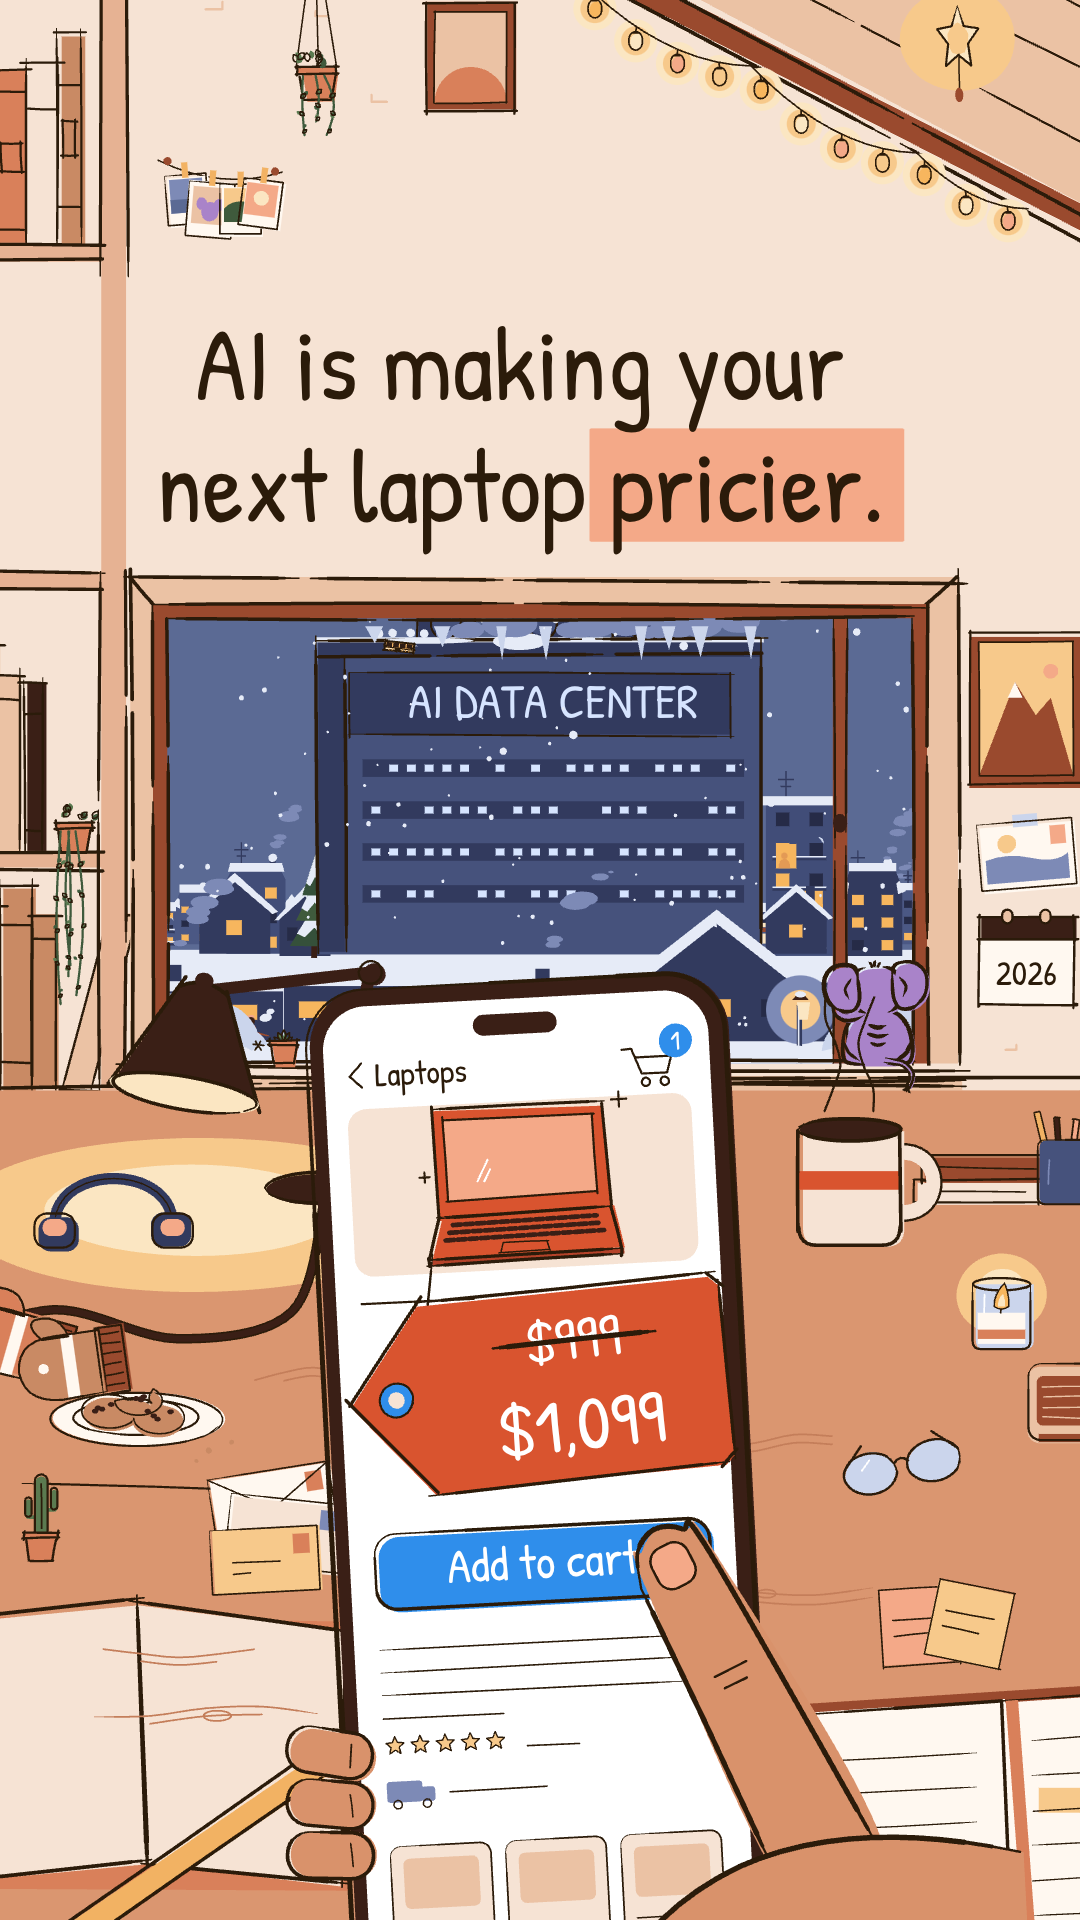
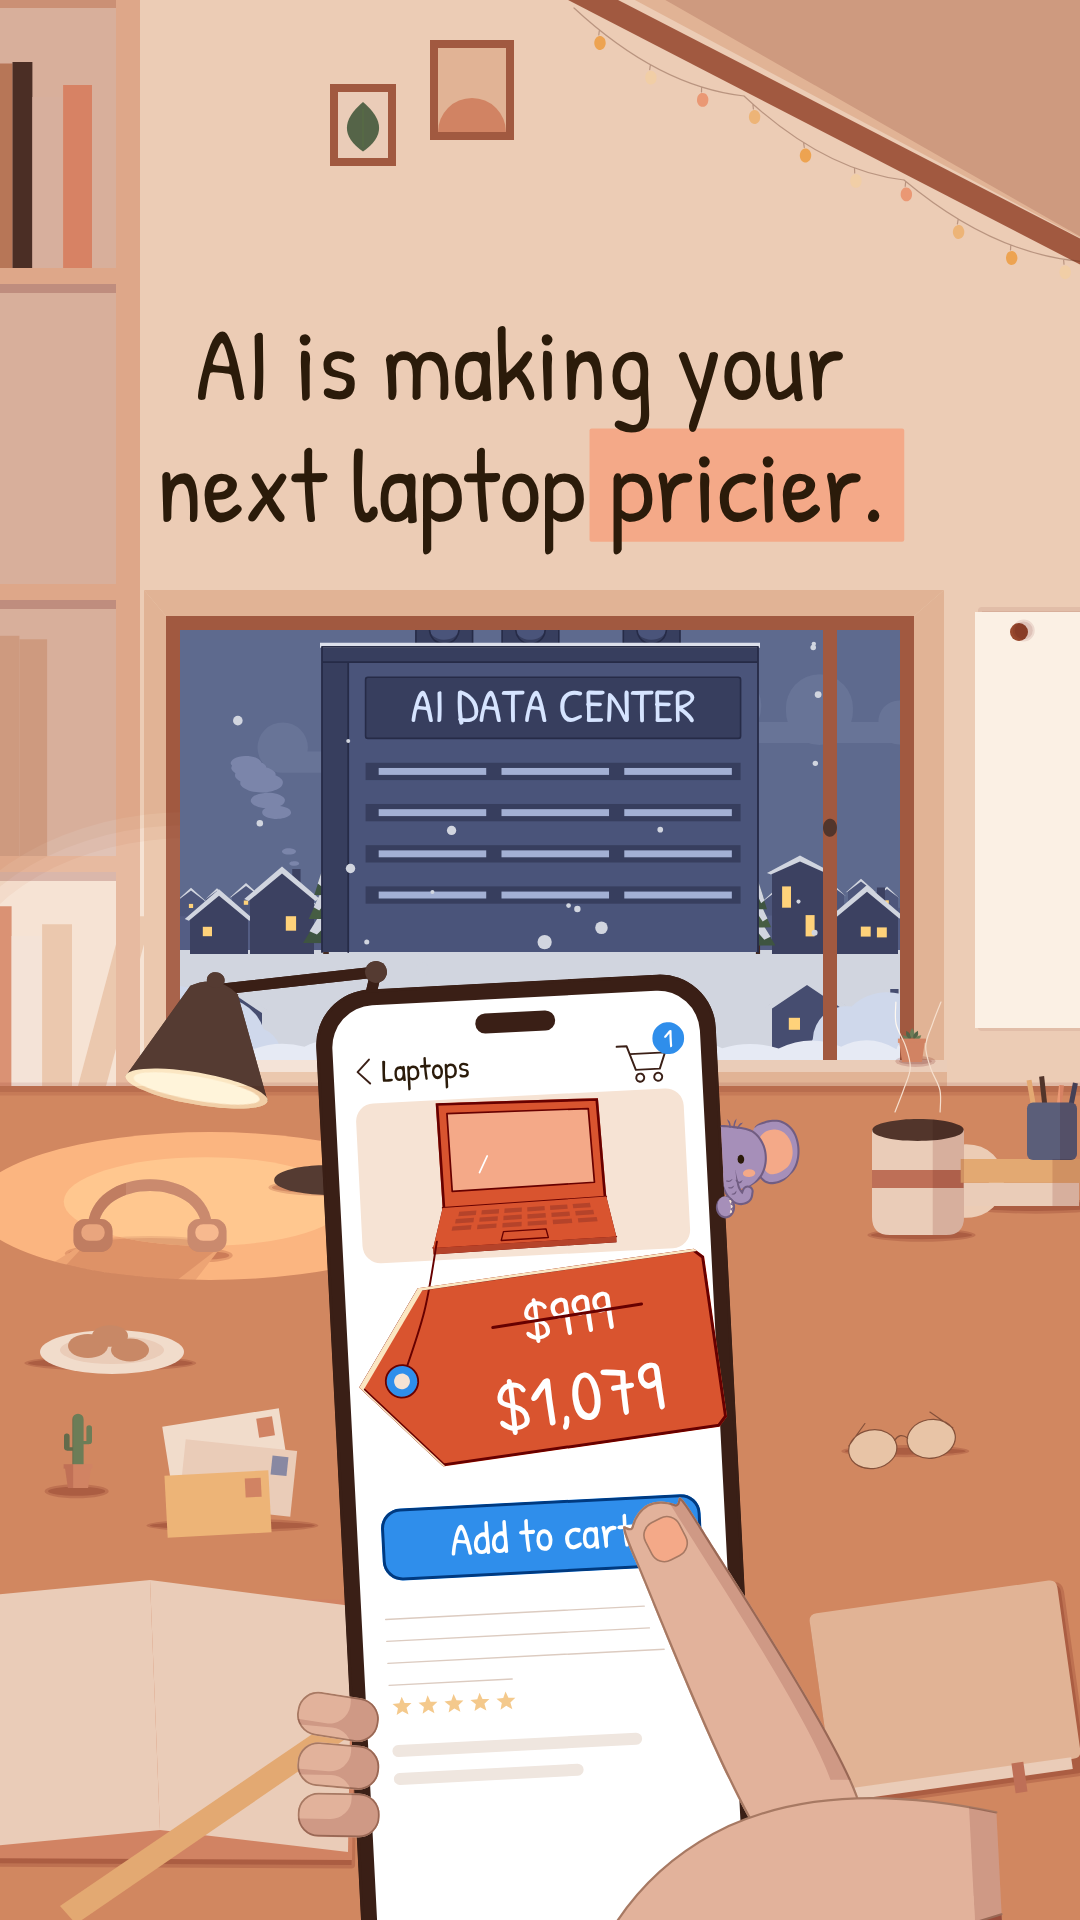
v3 rework final step 4: the cover re-rendered from the reworked hook (Cover3 frame 192)
Claude-Session: https://claude.ai/code/session_01K4EiJphpZBfCkniV3UU3wR

diff --git a/video/docs/v3/rework_reports/assembly_final.md b/video/docs/v3/rework_reports/assembly_final.md
@@ -40,7 +40,7 @@ Work folder: `/tmp/claude-0/-home-user-Test-/e0b06496-a313-5ced-bf0f-bc634eb1274
   region down to y 856 took in a flat cloud and FAILed on its edge, dL* 4.2: a shape, not a band; v3's skies are flat
   fills, so there is no gradient to band.)
 - `gate_check.py` (Film3Final, `--seam-comp Film3Seams --density`): fps, duration (2469 = ceil(41.150 x 60)), audio in
-  sync, the 4 seams (0.00 % at each, no cut), cuts (J3's push turns at frame 1164), carriers C C A A C (0 plain cuts),
+  sync, the 4 seams (<= 0.02 % of the pixels > 4 L*, no cut), cuts (J3's push turns at frame 1164), carriers C C A A C (0 plain cuts),
   captions (23 pages in the band): PASS. WARN: 17 cut-like in-shot events; caption page 2 has 23 characters (accepted in
   the pilot). FAIL, information only (DIRECTION: never a quota): density film average 6.4 events/s, gap 2.67 s, static
   38 %, flat 35 %, detail 23 % (SQB static 64 %: the locked draw; integrator 35 %).
@@ -64,3 +64,11 @@ tag still shows its back ("AI"; the turn back starts 40.55).
   the pixels, like its neighbours (0.29-0.35 %): no pop.
 - Also seen: 33.0 the BETTER pill reads; 35.95 the tag jolts after the overtake has ended; 27.1 the "~5x" notice.
 - No clear break, so no fix and no re-render: the master stands.
+
+## Step 4: the cover
+- `deliverables/v3/cover.png` re-rendered from Cover3 at **frame 192 (3.2 s)**, full size (1080 x 1920; render-frames.mjs,
+  the master's GL), the same moment as before, now the reworked hook: the phone's listing with its tag at full strength,
+  $999 struck and $1,079, under the window's lit AI DATA CENTER sign (the sticks have landed, the phone not yet lowered:
+  a still, clean frame); the title on the wall above the window, clear of the sign and the tag; title, sign and tag
+  inside the 3:4 profile-grid crop (y 240-1680). Looked at once at full size and once at 270 x 480: the title, "AI DATA
+  CENTER" and "$1,079" all read at phone size.
